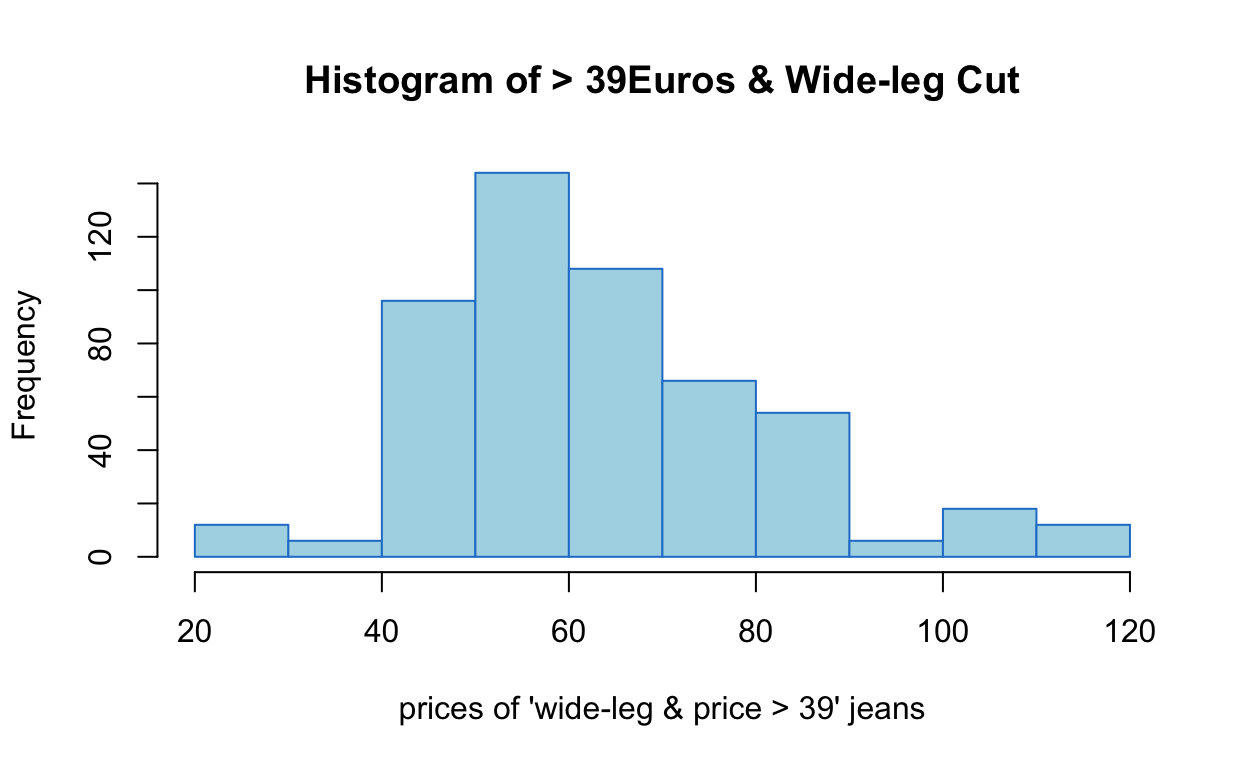
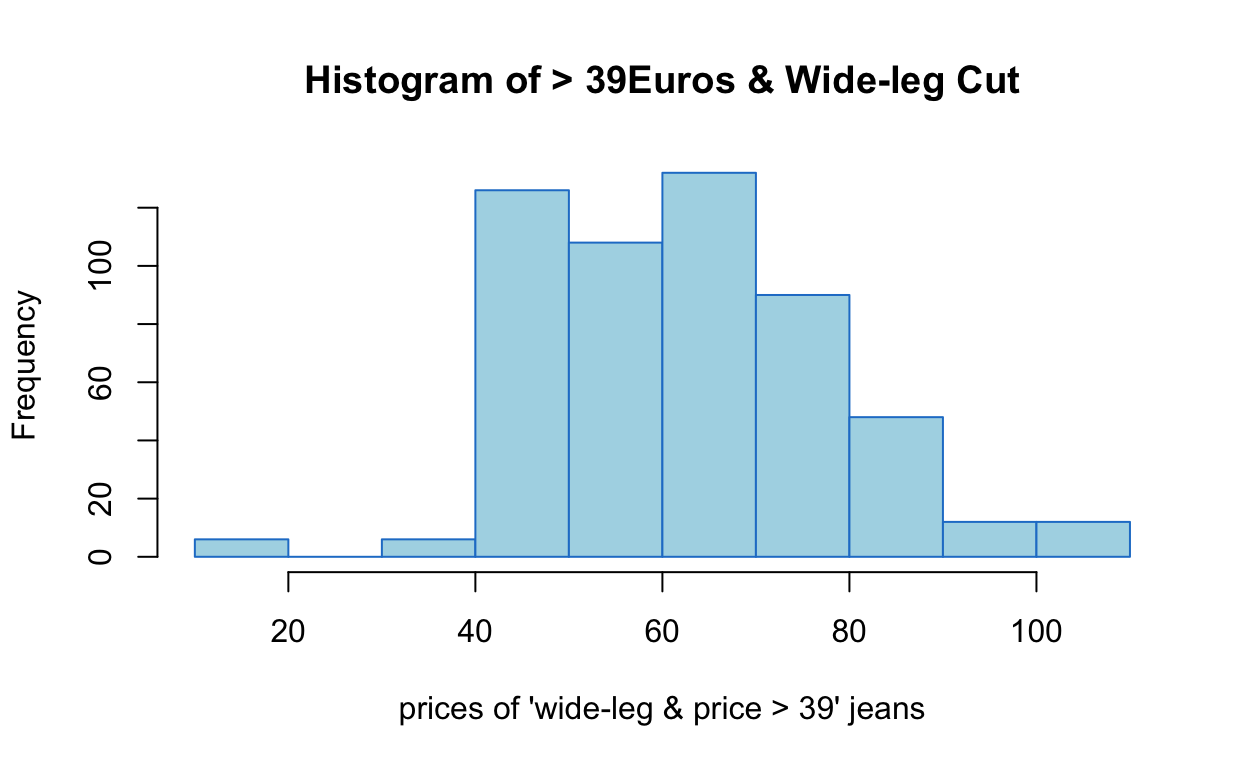
formating changes to filering & indexing blog

diff --git a/docs/indexing_filtering.html b/docs/indexing_filtering.html
@@ -2131,16 +2131,6 @@ Statistik I
 </div>
 <div class="nav-dropdown">
 <button class="nav-dropbtn">
-Statistik I - Homework
- 
-<span class="down-arrow">&#x25BE;</span>
-</button>
-<div class="nav-dropdown-content">
-<a href="vec_fun_homework.html">Homework - Session 3</a>
-</div>
-</div>
-<div class="nav-dropdown">
-<button class="nav-dropbtn">
 Statistik II
  
 <span class="down-arrow">&#x25BE;</span>
@@ -2269,28 +2259,28 @@ Statistik II
 <span><span class='fu'><a href='https://rdrr.io/r/utils/head.html'>head</a></span><span class='op'>(</span><span class='va'>my_dataframe</span><span class='op'>)</span></span></code></pre>
 </div>
 <pre><code>  ItemType Price       Cut
-1    jeans    52      boot
-2    jeans    59       7/8
-3    jeans    68    skinny
-4    jeans    59  wide leg
-5    jeans    74 boyfriend
-6    jeans    90      boot</code></pre>
+1    jeans    63      boot
+2    jeans    61       7/8
+3    jeans    47    skinny
+4    jeans    54  wide leg
+5    jeans    55 boyfriend
+6    jeans    76      boot</code></pre>
 <div class="sourceCode">
 <pre class="sourceCode r"><code class="sourceCode r"><span><span class='co'># Access the second row</span></span>
 <span><span class='va'>row_2</span> <span class='op'>=</span> <span class='va'>my_dataframe</span><span class='op'>[</span><span class='fl'>2</span>, <span class='op'>]</span></span>
 <span><span class='fu'><a href='https://rdrr.io/r/base/print.html'>print</a></span><span class='op'>(</span><span class='va'>row_2</span><span class='op'>)</span></span></code></pre>
 </div>
 <pre><code>  ItemType Price Cut
-2    jeans    59 7/8</code></pre>
+2    jeans    61 7/8</code></pre>
 <div class="sourceCode">
 <pre class="sourceCode r"><code class="sourceCode r"><span><span class='co'># Access the entire first column</span></span>
 <span><span class='va'>col_2</span> <span class='op'>=</span> <span class='va'>my_dataframe</span><span class='op'>[</span> ,<span class='fl'>2</span><span class='op'>]</span></span>
 <span><span class='va'>col_2</span><span class='op'>[</span><span class='fl'>1</span><span class='op'>:</span><span class='fl'>50</span><span class='op'>]</span></span></code></pre>
 </div>
-<pre><code> [1]  52  59  68  59  74  90  53  32  30  81  53  63  54  58  22  50
-[17]  74  50  56  67  53  33  48  32  52  78  54  35  27  81  47  54
-[33]  46  65  31  28  41  75  72  79 111  38  74  47 103  52  49  69
-[49]  46  62</code></pre>
+<pre><code> [1]  63  61  47  54  55  76  57  72  48  51  48  61  33  17  45  68
+[17]  41  93  70  69  63  79  66  57  64  80 101  33  63 107  90  59
+[33]  53  61  28  79  71  90  62  -5  55  86  26  48  76  74  70  42
+[49]  47  49</code></pre>
 <div class="sourceCode">
 <pre class="sourceCode r"><code class="sourceCode r"><span><span class='co'># Access the 'Age' column using column name</span></span>
 <span><span class='va'>allCuts</span> <span class='op'>=</span> <span class='va'>my_dataframe</span><span class='op'>$</span><span class='va'>Cut</span></span>
@@ -2332,26 +2322,26 @@ Statistik II
 <span><span class='fu'><a href='https://rdrr.io/r/utils/head.html'>head</a></span><span class='op'>(</span><span class='va'>my_dataframe_boot</span>, n <span class='op'>=</span> <span class='fl'>20</span><span class='op'>)</span> <span class='co'># n stands for the number of top observations you wish to see out of the dataframe </span></span></code></pre>
 </div>
 <pre><code>   ItemType Price  Cut
-1     jeans    52 boot
-6     jeans    90 boot
-11    jeans    53 boot
-16    jeans    50 boot
-21    jeans    53 boot
-26    jeans    78 boot
-31    jeans    47 boot
-36    jeans    28 boot
-41    jeans   111 boot
-46    jeans    52 boot
-51    jeans    60 boot
-56    jeans    81 boot
-61    jeans   106 boot
-66    jeans    47 boot
-71    jeans    36 boot
-76    jeans    54 boot
-81    jeans    61 boot
-86    jeans    35 boot
-91    jeans    89 boot
-96    jeans    62 boot</code></pre>
+1     jeans    63 boot
+6     jeans    76 boot
+11    jeans    48 boot
+16    jeans    68 boot
+21    jeans    63 boot
+26    jeans    80 boot
+31    jeans    90 boot
+36    jeans    79 boot
+41    jeans    55 boot
+46    jeans    74 boot
+51    jeans    46 boot
+56    jeans    60 boot
+61    jeans    42 boot
+66    jeans    19 boot
+71    jeans    45 boot
+76    jeans    47 boot
+81    jeans    62 boot
+86    jeans    74 boot
+91    jeans    50 boot
+96    jeans    52 boot</code></pre>
 <div class="sourceCode">
 <pre class="sourceCode r"><code class="sourceCode r"><span><span class='co'># bonus...lets see the distribution of the prices of boot cuts </span></span>
 <span><span class='fu'><a href='https://rdrr.io/r/graphics/hist.html'>hist</a></span><span class='op'>(</span><span class='va'>my_dataframe</span><span class='op'>[</span><span class='va'>condition_boot</span>, <span class='fl'>2</span><span class='op'>]</span>,</span>
@@ -2380,14 +2370,14 @@ Statistik II
 <p>Wir können mehrerer Bedingungen kombinieren mithilfe von logischen Operatoren wie &amp; (UND) und | (ODER).</p>
 <p>Zum Beispiel,</p>
 <ol type="1">
-<li>wenn du Zeilen filtern möchtest, in denen ‘price’ größer als 39 UND ein “wide leg” cut ist.
+<li>wenn du Zeilen filtern möchtest, in denen ‘price’ größer als 39 UND ein “wide leg” cut ist.</li>
+</ol>
 <div class="layout-chunk" data-layout="l-body">
 <div class="sourceCode">
 <pre class="sourceCode r"><code class="sourceCode r"><span><span class='co'># condition that will select both wide cuts and those that cost more than 59Euro</span></span>
 <span><span class='va'>condition_wide_39</span> <span class='op'>=</span> <span class='va'>my_dataframe</span><span class='op'>$</span><span class='va'>Cut</span> <span class='op'>==</span> <span class='st'>"wide leg"</span> <span class='op'>&amp;</span> <span class='va'>my_dataframe</span><span class='op'>$</span><span class='va'>Price</span> <span class='op'>&gt;</span> <span class='fl'>39</span></span>
 <span><span class='fu'><a href='https://rdrr.io/r/utils/head.html'>head</a></span><span class='op'>(</span><span class='va'>condition_wide_39</span><span class='op'>)</span></span></code></pre>
-</div></li>
-</ol>
+</div>
 <pre><code>[1] FALSE FALSE FALSE  TRUE FALSE FALSE</code></pre>
 <div class="sourceCode">
 <pre class="sourceCode r"><code class="sourceCode r"><span><span class='va'>data_wide_39</span> <span class='op'>=</span> <span class='va'>my_dataframe</span><span class='op'>[</span><span class='va'>condition_wide_39</span>,<span class='op'>]</span></span>
